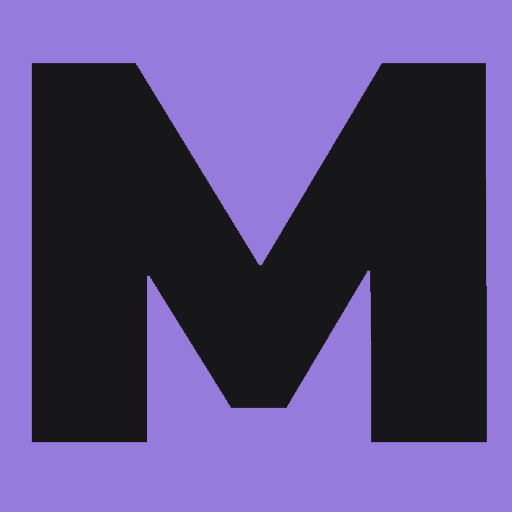
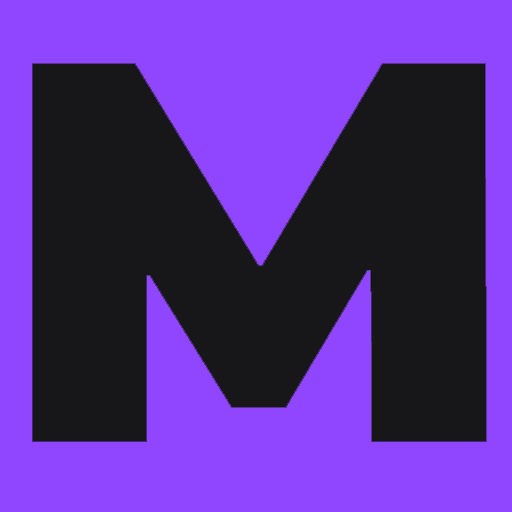
chore: accessibility

diff --git a/src/pages/styles.js b/src/pages/styles.js
@@ -145,9 +145,9 @@ export const Section = styled.section`
     text-align-last: center;
 
     a {
-      text-decoration: none;
+      text-decoration: none;  
       font-weight: bold;
-      color: ${props => props.theme.primary};
+      color: ${props => lighten(0.06, props.theme.primary)};
     }
 
     span {
@@ -164,7 +164,7 @@ export const Section = styled.section`
     }
 
     .css {
-      color: #016DB5;
+      color: ${lighten(0.09, '#016DB5')};
     }
 
     .javascript {
@@ -172,7 +172,7 @@ export const Section = styled.section`
     }
 
     .react-js {
-      color: #3b5998;
+      color: ${lighten(0.16, '#3b5998')};
     }
 
     .react-native {
@@ -204,6 +204,10 @@ export const Section = styled.section`
       display: flex;
       flex-direction: column;
       width: 100%;
+
+      label {
+        color: ${props => darken(0.1, props.theme.textColor)};
+      }
 
       textarea {
         resize: none;
@@ -284,7 +288,7 @@ export const Section = styled.section`
     margin-top: 20px;
     font-size: 12px;
     text-align: center;
-    color: ${props => darken(0.3,props.theme.textColor)};
+    color: ${props => darken(0.2,props.theme.textColor)};
 
     .social-icons {
       margin-top: 10px;

diff --git a/src/pages/index.js b/src/pages/index.js
@@ -135,7 +135,7 @@ export default ({ data }) => {
               <span>Você também pode me encontrar aqui: </span>
               <div className="social-icons">
               {icons && social.map((social, index) => (
-                <a key={index} href={social.url}>
+                <a key={index} href={social.url} aria-label={social.name}>
                   <Icon 
                     component={icons[social.iconName]} 
                     size={24} 

diff --git a/config/siteMetadata.js b/config/siteMetadata.js
@@ -10,12 +10,12 @@ module.exports = {
   ],
   social: [
     {
-      name: `github`,
+      name: `Github`,
       url: `https://github.com/mxthevs`,
       iconName: 'FaGithub',
     },
     {
-      name: `instagram`,
+      name: `Instagram`,
       url: `https://www.instagram.com/mxthevs_/`,
       iconName: 'FaInstagram',
     }
